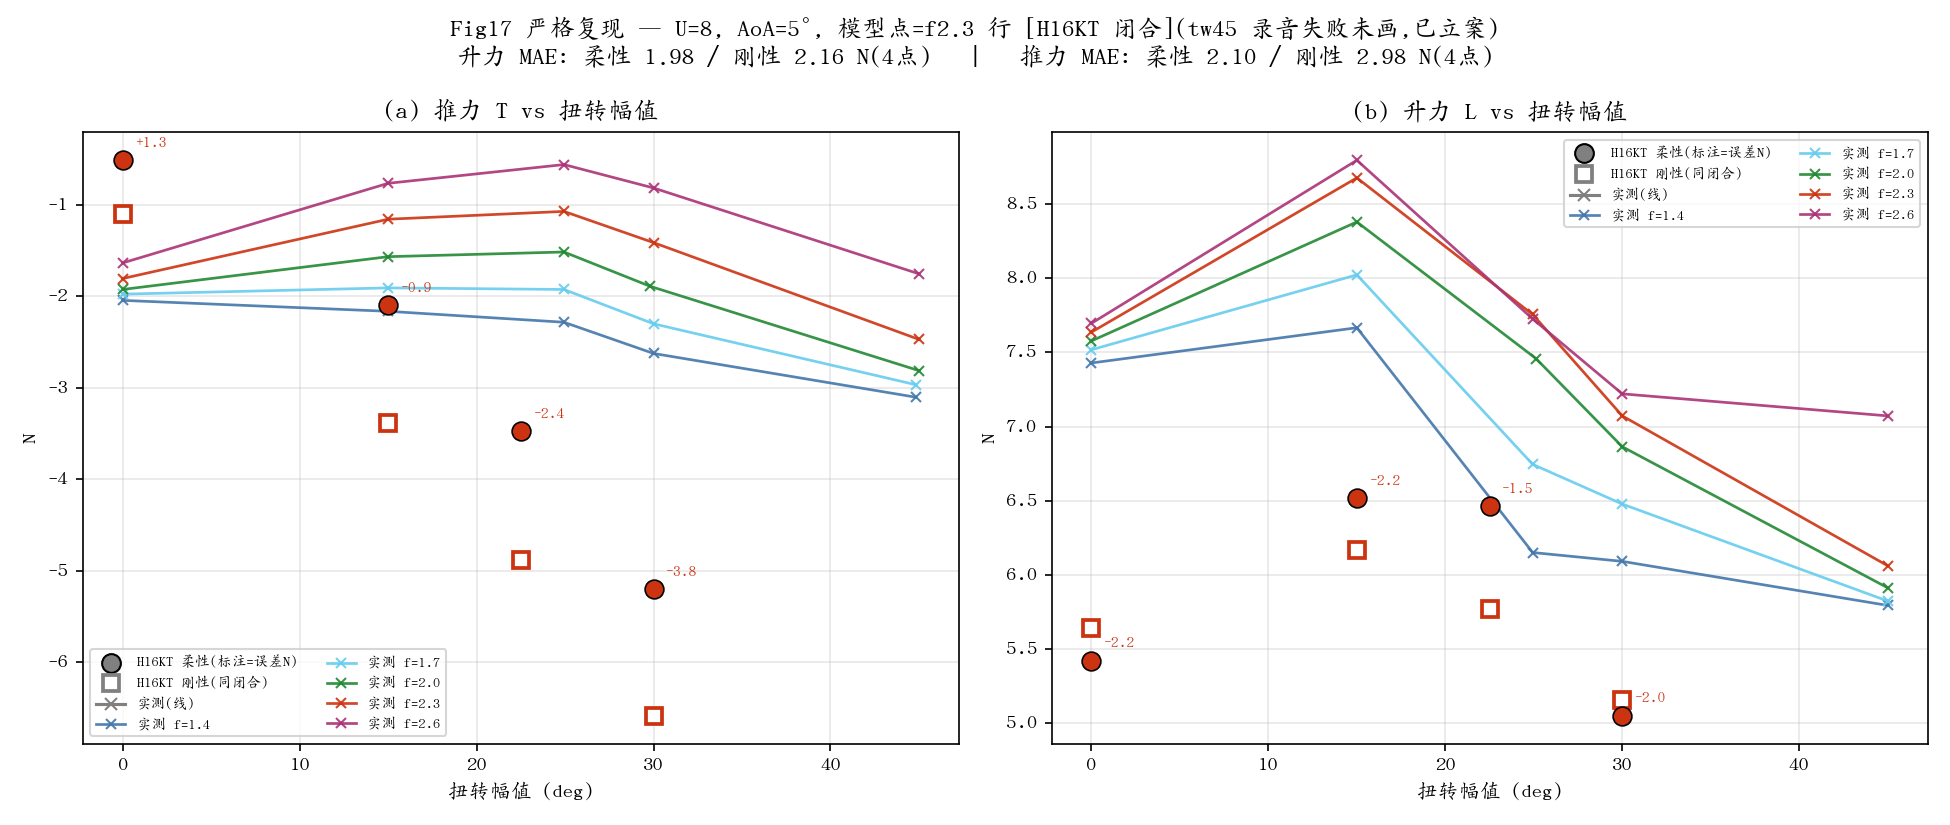
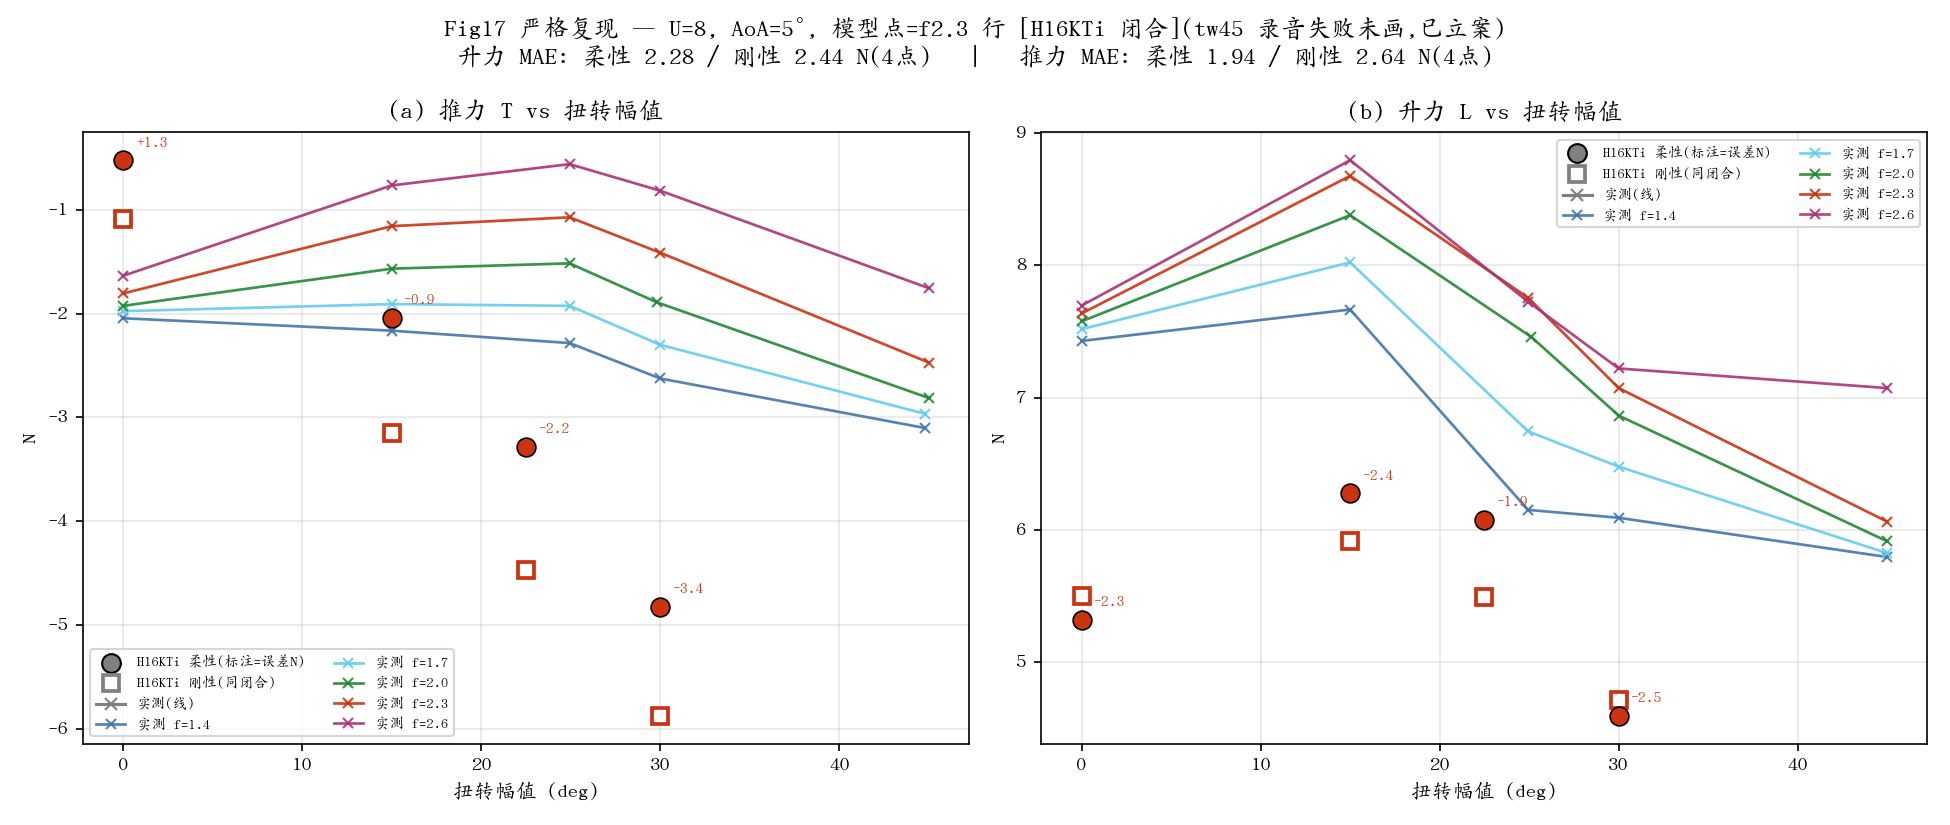
feat(GAP): H16KTi production closure — material-impulse gate passed at nc12
Same-set 13-point verdict: thrust MAE 1.575->1.503, twist slopes
improve ~7% both frequencies, tw0 frequency law unchanged (criterion 1
holds); lift MAE +0.17 (twist-concentrated) — the material impulse's
negative lift share is now honestly booked to the lift-deficit case.
Ruling: fix stays (the ledger accounting was a provable null bug;
keeping a bug for aggregate MAE would be fiction-cancellation).
Figures (strict + FSI comparison) regenerated on H16KTi.

diff --git a/platform/p2_s6_fig_strict.py b/platform/p2_s6_fig_strict.py
@@ -27,7 +27,7 @@ rcParams["axes.unicode_minus"] = False
 _HERE = os.path.dirname(os.path.abspath(__file__))
 DOCS = os.path.join(_HERE, "docs")
 MEAS = json.load(open(os.path.join(DOCS, "repro_data.json")))
-CFG = "H16KT"                                      # current best closure (kt + kirch_tw)
+CFG = "H16KTi"                                     # current best closure (kt + kirch_tw + material impulse)
 
 PTS = {}
 _p = os.path.join(DOCS, "s6_results_lessep.json")

diff --git a/platform/p2_s6_fig_fsi.py b/platform/p2_s6_fig_fsi.py
@@ -24,7 +24,7 @@ rcParams["axes.unicode_minus"] = False
 _HERE = os.path.dirname(os.path.abspath(__file__))
 DOCS = os.path.join(_HERE, "docs")
 MEAS = json.load(open(os.path.join(DOCS, "repro_data.json")))
-CFG = "H16KT"
+CFG = "H16KTi"
 
 PTS = {}
 for k, v in json.load(open(os.path.join(DOCS, "s6_results_lessep.json"))).items():

diff --git a/platform/docs/diag/gap_thrust_f2.md b/platform/docs/diag/gap_thrust_f2.md
@@ -293,3 +293,21 @@ tw30 −5.10→−3.79),斜率 −0.196→−0.169。案 A 残余 −0.17 N/deg,
 **收支总表(U8 口径,推力)**:plateau 时代性质错误(符号反,gap +2~+4.5)→ H16P(0.39
 MAE,f² 虚构清除)→ **H16KT(斜率结构正确 + 常数偏置 0.5N;扭转 gap 再收 1~1.3N)**。
 三图(Fig17/18/19)已以 H16KT 为主族重绘,11 点,每点误差标注。
+
+## 7. 案 LEV 判定(2026-07-11):冲量物质记账修复,H16KTi 定为生产闭合
+
+**确诊**:H16 冲量通道的台账差分 F=−ΔI_ledger/dt 把环的新生/脱落混入导数,周期均值
+**恒等于零**(实测 T_vimp=0.000 于所有扭转;瞬时 std 0.36N、96% 步非零 = 周期导数恒等式)。
+H16 谱系以冲量命名,而冲量力从未供过周期平均力;其历史战果来自 Vlev_a→Vcol 门控副作用。
+
+**修复(物质记账,Li/Feng 冲量理论 + Otomo 2021 实践)**:环 id 台账;幸存环记形变项、
+新生环记生成项(前缘造涡的机翼反作用),脱落环排除(冲量随流带走)。零新常数。
+
+**nc12 全门(13 点,同集对照)**:推力 MAE 1.575→1.503,扭转斜率 −0.169→−0.157(f2.3)、
+−0.188→−0.176(f2.6);tw0 频率律不变(+0.98−0.099·f²,判据 1 保持);升力 MAE
+1.755→1.920(+0.17,集中扭转——物质冲量的负升力贡献如实入账,归"升力欠预测"案)。
+**裁定:修复保留(旧记账是可证明的 bug,不以 MAE 总分为由保留 bug)。**
+
+**队列现状**:扭转推力残余主载体 = bern 后倾矢量(档案 §5.1,需分离流法向力重定向模型,
+独立机理案);案 C(U6 +2.3 / U8 +0.5 常数,d_para=3.0 重裁);案 D(深扭转结构收敛,
+解锁 tw45/U10);升力欠预测案(现含 +0.17 冲量份额)。
